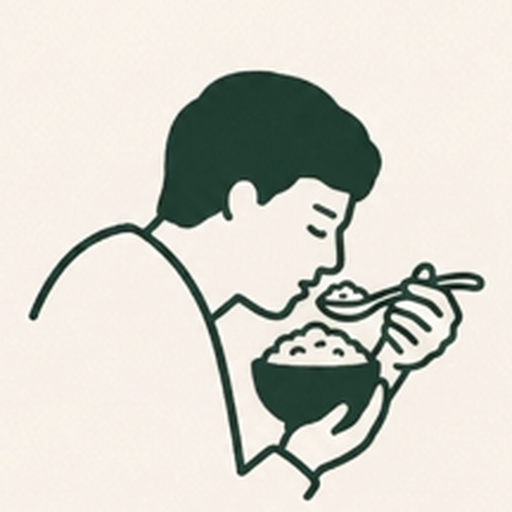
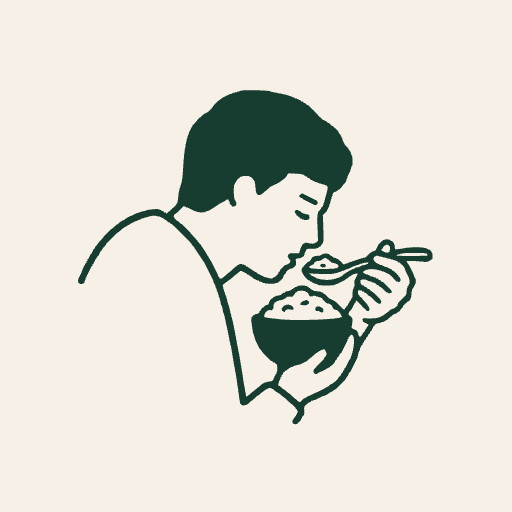
Redesign R1.4 and R1.5: brand assets and bridge check
R1.4: brand assets in Canopy colours.
- public/brand/logo.svg: the stacked lockup (figure over the ruled
  CHARRED / BY PORCAFE wordmark), traced from docs/redesign/logo.png.
- public/brand/mark.svg: the round cream mark with a hairline ring.
- public/brand/empty-state.svg: the bowl-and-spoon line drawing from
  canopy-final.html, for empty states.
- logo.png, logo-mark.png, icon-192.png and icon-512.png are rasterised
  from those SVGs, so the nav and the installed app use the new mark.
- manifest theme colour is brand (#163D2F) and background is canvas
  (#F6F0E6). The viewport theme colour matches.

The SVGs are traced from the raster logo, not redrawn by hand. The
wordmark is the logo's own lettering, not Outfit.

R1.5: checked the five screens with one load each at 390 and 1280,
resizing in place. No horizontal overflow, no page errors. Lint,
typecheck, 206 tests and the production build all pass.

Changed region(s): [[0.0312, 0.125, 0.9688, 1.0]]

diff --git a/src/app/layout.tsx b/src/app/layout.tsx
@@ -19,7 +19,7 @@ export const metadata: Metadata = {
 };
 
 export const viewport: Viewport = {
-  themeColor: "#1f3a2f",
+  themeColor: "#163D2F",
   width: "device-width",
   initialScale: 1,
   interactiveWidget: "resizes-content",

diff --git a/docs/redesign/IMPLEMENTATION_PLAN.md b/docs/redesign/IMPLEMENTATION_PLAN.md
@@ -64,11 +64,11 @@ Goal: put the new tokens and fonts in place so the whole live app re-themes cohe
   - Global base layer: body canvas and ink, tabular figures, and the `:focus-visible` ring.
 - [x] **R1.2 Fonts.** Add `src/app/fonts.ts` with Outfit and Figtree (DESIGN_SYSTEM §3) and wire them in `layout.tsx`, replacing Inter and Geist Mono. Add the type-scale tokens (§4).
 - [x] **R1.3 Design rules doc.** `DESIGN_SYSTEM.md` was written by the review.
-- [ ] **R1.4 Brand assets.**
+- [x] **R1.4 Brand assets.**
   - Make the ruled lockup ("CHARRED / — BY PORCAFE —") and the round mark, as SVG if possible.
   - Make the single line illustration for empty states, using `canopy-final.html` as the reference.
   - Replace `public/logo.png`, `logo-mark.png` and `icon-192/512.png`. Set the `manifest.json` theme colour to brand and the background to `#F6F0E6`.
-- [ ] **R1.5 Check.** Walk every screen once at 390 and 1280 to confirm nothing is unreadable under the bridge theme. Run lint and build.
+- [x] **R1.5 Check.** Walk every screen once at 390 and 1280 to confirm nothing is unreadable under the bridge theme. Run lint and build.
 
 **Exit:** the live app is on the new colours and fonts, every old screen is still usable, and the build passes.
 
